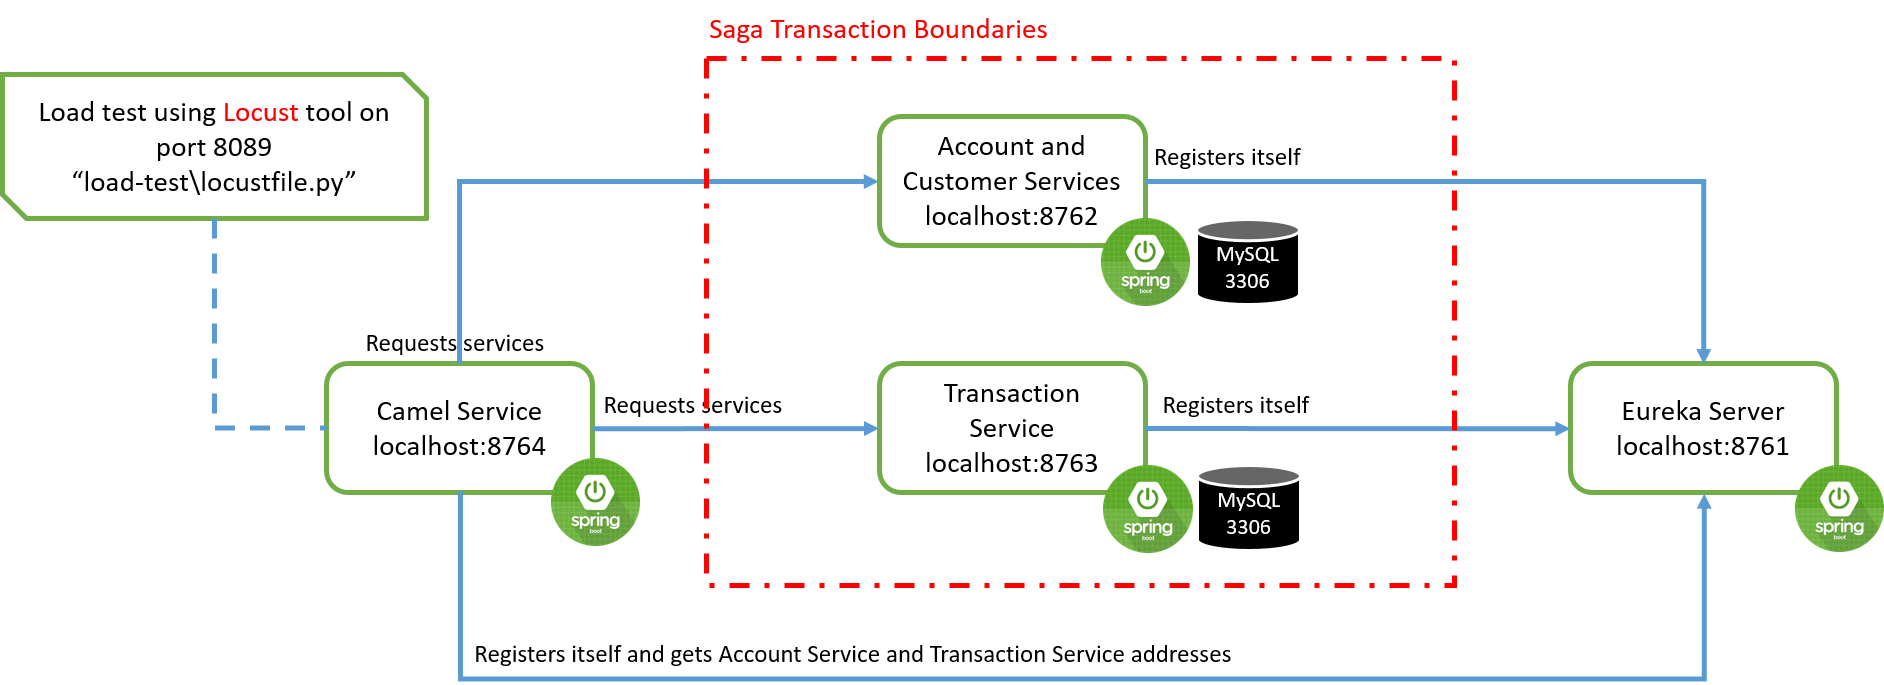
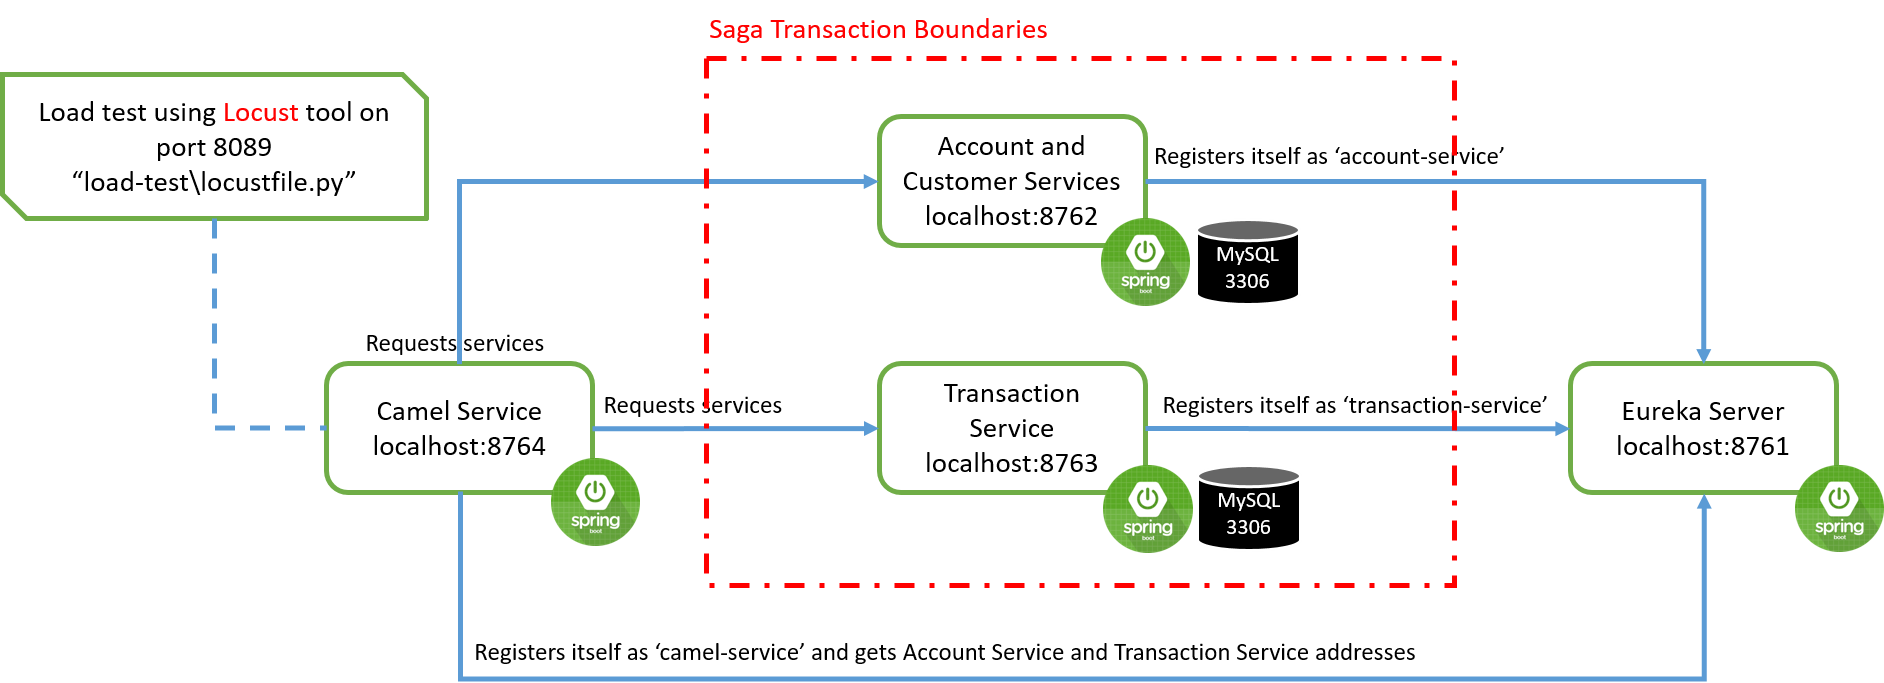
architecture diagrams updated + readme updated

diff --git a/README.md b/README.md
@@ -3,7 +3,7 @@
 This is a simple example to show you how to implement a `Saga EIP` over simple 
 services using `Apache Camel` and `Spring Cloud`
 
-# Libraries and Tools
+## Libraries and Tools
 * [Module] [`Spring Boot`](https://spring.io/projects/spring-boot)
 * [Module] [`Spring Cloud`](https://spring.io/projects/spring-cloud)
 * [Module] `Spring Data`
@@ -14,11 +14,11 @@ services using `Apache Camel` and `Spring Cloud`
 * [Library] [`DataFactory`](https://mvnrepository.com/artifact/org.fluttercode.datafactory/datafactory/0.8): Library for generating fake data
 
 
-# How it works
+## How it works
 
 Bellow is the relationships between different services provided in this demo.  
 
-## Transaction and Account Demo
+### Transaction and Account Demo
 
 ![Architecture](imgs/camel-cloud-saga-arch-transaction-account.png)
 
@@ -29,7 +29,7 @@ handled by `Transaction` service.
 There is also a `Camel` service which tries to implement `Saga EIP` over `Account` and `Transaction` services.
 All these services are registered in `Eureka` as the service registry and discovery framework.
 
-## Transfer from Bank A to Bank B Demo
+### Transfer from Bank A to Bank B Demo
 
 ![Architecture](imgs/camel-cloud-saga-arch-transfer.png)
 
@@ -38,24 +38,32 @@ has a repository of transactions. We are trying to exemplify a simple transactio
 There is another `Camel` service which tries to implement `Saga EIP` over `Bank-A` and `Bank-B` services.
 All these services are registered in `Eureka` as the service registry and discovery framework.
 
-# How to run
-## Transaction and Account Demo
-* Start `eureka-service` module. It can be verified using url [http://localhost:8761/](http://localhost:8761/).
+## How to run
+### Transaction and Account Demo
+* Start `eureka-server` module. It can be verified using url [http://localhost:8761/](http://localhost:8761/).
 * Start `account-service` module. It can be verified using url [http://localhost:8762/accounts](http://localhost:8762/accounts).
 * Start `transaction-service` module. It can be verified using url [http://localhost:8763/transactions](http://localhost:8763/transactions).
 * Start `camel-service` module. It can be verified using url [http://localhost:8764/health](http://localhost:8764/health).
 
-## Transfer from Bank A to Bank B Demo
-* Start `eureka-service` module. It can be verified using url [http://localhost:8761/](http://localhost:8761/).
+Now your services are up and you can send transactions as `JSON` type with `Http.POST` method to 
+[http://localhost:8764/make-transaction](http://localhost:8764/make-transaction) url.
+Or, you can simply do the load test explained bellow.
+
+### Transfer from Bank A to Bank B Demo
+* Start `eureka-server` module. It can be verified using url [http://localhost:8761/](http://localhost:8761/).
 * Start `bank-a-service` module. It can be verified using url [http://localhost:8765/transactions](http://localhost:8765/transactions).
 * Start `bank-b-service` module. It can be verified using url [http://localhost:8766/transactions](http://localhost:8766/transactions).
 * Start `camel-transfer-service` module. It can be verified using url [http://localhost:8767/health](http://localhost:8767/health).
 
-# Load Test
+Now your services are up and you can send transactions as `JSON` type with `Http.POST` method to 
+[http://localhost:8767/transfer](http://localhost:8767/transfer) url.
+Or, you can simply do the load test explained bellow.
+
+## Load Test
 You should have `Python` and `Locust` installed on your system to do the load test part. To do the load test
 simply run the following through the terminal in project root path:
 
-## Transaction and Account Demo
+### Transaction and Account Demo
 ```
 cd \path\to\project\spring-boot-cloud-camel-composite-service 
 \path\to\locust\locust.exe -f load-test\locustfile.py
@@ -65,7 +73,7 @@ This starts the locust on  [http://localhost:8089](http://localhost:8089/)
 You can set number of users and catch size and then start the test
 It sends a lot of `Http.POST` requests to `http://localhost:8764/make-transactions`
 
-## Transfer from Bank A to Bank B Demo
+### Transfer from Bank A to Bank B Demo
 ```
 cd \path\to\project\spring-boot-cloud-camel-composite-service 
 \path\to\locust\locust.exe -f load-test\locustfile-transfer.py
@@ -74,3 +82,26 @@ cd \path\to\project\spring-boot-cloud-camel-composite-service
 This starts the locust on  [http://localhost:8089](http://localhost:8089/)
 You can set number of users and catch size and then start the test
 It sends a lot of `Http.POST` requests to `http://localhost:8767/transfer`
+
+## Load Balancing Using Zuul
+Zuul, among many other things, fetches from Eureka service locations and does server-side load balancing.
+In order to test it, we add another instance for `account-service` named `account-service-instance2`.
+This service has the same name as the `account-service` when he wants to register itself on `Eureka`.
+
+![Architecture](imgs/camel-cloud-saga-arch-zuul.png)
+
+To test it:
+* Start `eureka-server` module. It can be verified using url [http://localhost:8761/](http://localhost:8761/).
+* Start `account-service` module. It can be verified using url [http://localhost:8762/accounts](http://localhost:8762/accounts).
+* Start `account-service-instance2` module. It can be verified using url [http://localhost:8769/accounts](http://localhost:8769/accounts).
+* Start `zuul-server` module. It can be verified using url [http://localhost:8768/actuator/info](http://localhost:8768/actuator/info).
+
+When Zuul receives a request, it picks up one of the physical locations available and forwards requests to the actual 
+service instance. The whole process of caching the location of the service instances and forwarding the request to 
+the actual location is provided out of the box with no additional configurations needed.
+
+Internally, Zuul uses Netflix Ribbon to look up for all instances of the service from the service discovery (Eureka Server).
+
+
+Now you can receive accounts information through [http://localhost:8768/account-service/api/accounts](http://localhost:8768/account-service/api/accounts).
+The request received by Zuul is forwarded to different instances of `account-service` in a round robin fashion.
